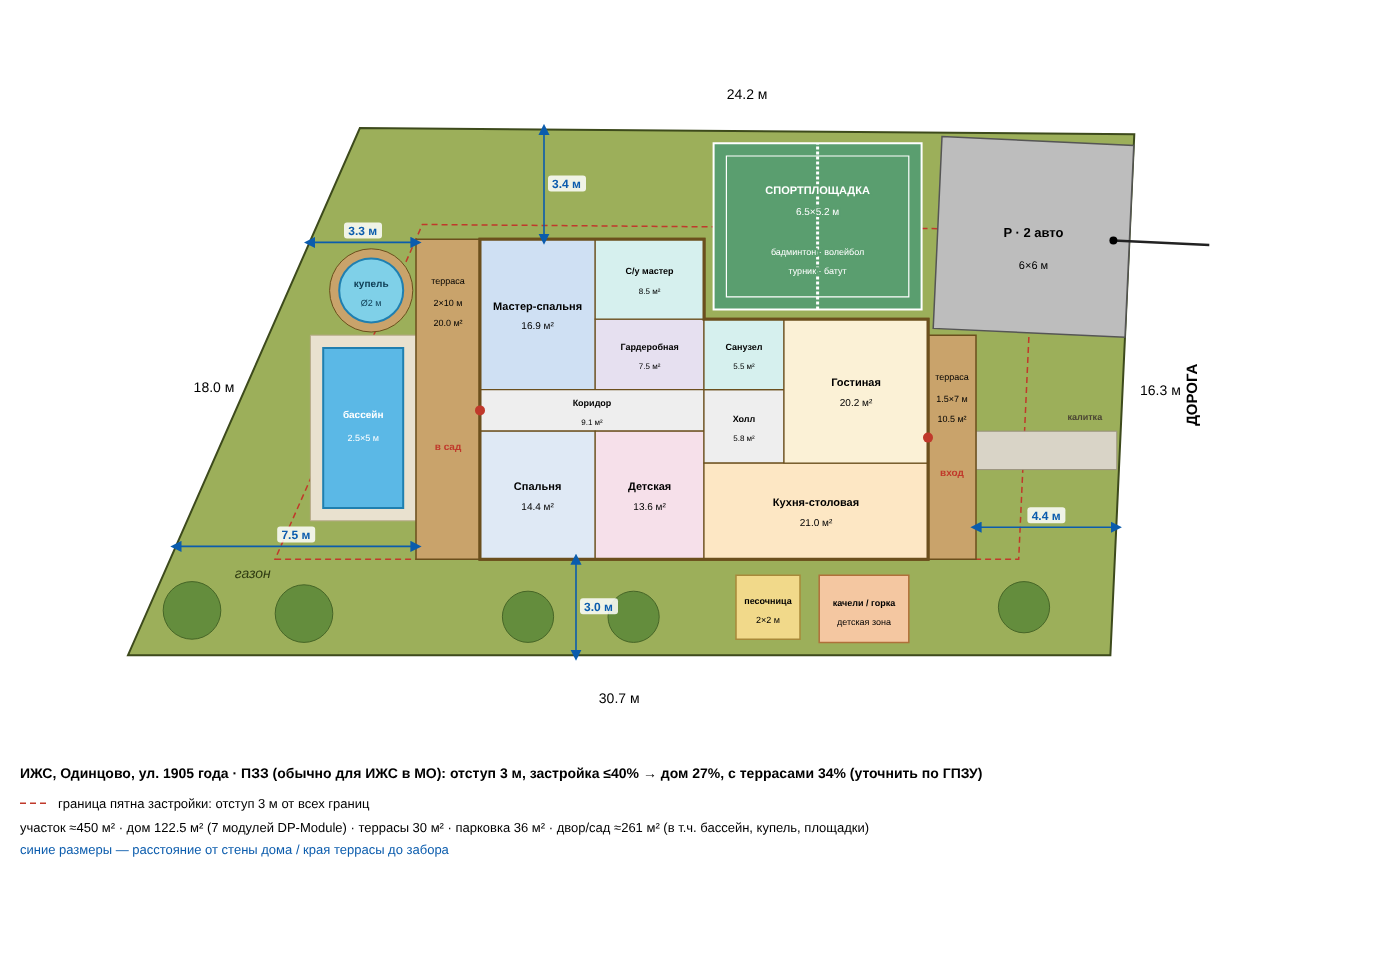
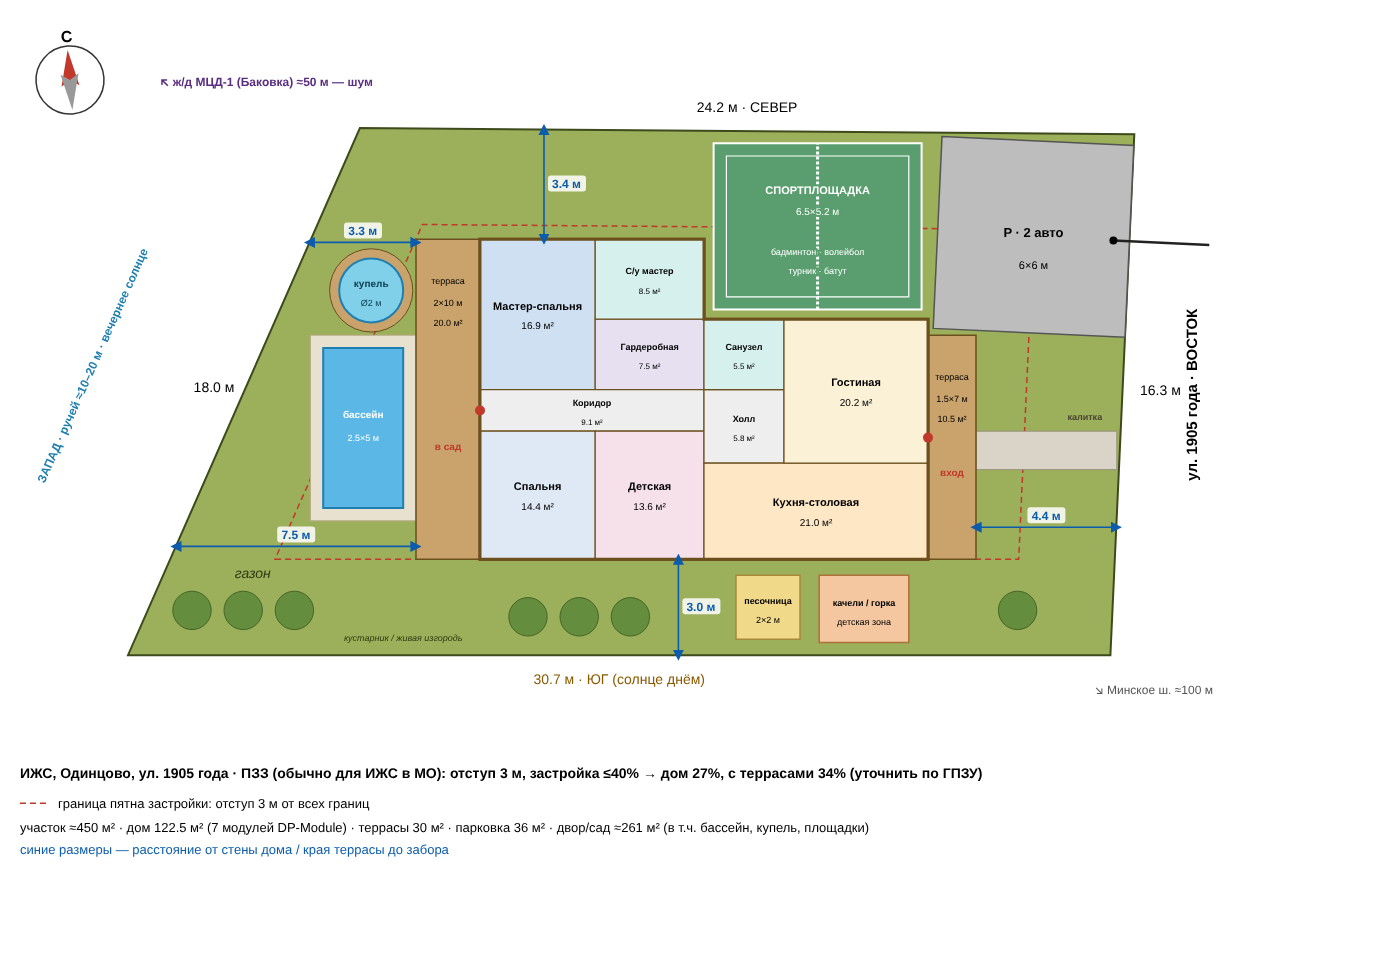
Ориентация по карте: север, ручей, ж/д, Минское ш.; кустарник у южного забора
Claude-Session: https://claude.ai/code/session_017tjZczqth6Lefs1XGWvp2u

diff --git a/plan.py b/plan.py
@@ -241,7 +241,7 @@ def ray_to_fence(p, d):
 DIMS = [  # (точка в координатах дома, направление) — от стены/террасы до забора
     ((-2.0, 0.4), (-1, 0)),    # сад-терраса, низ
     ((-2.0, 9.9), (-1, 0)),    # сад-терраса, верх
-    ((3.0, 0.0), (0, -1)),     # спальни -> нижний забор
+    ((6.2, 0.0), (0, -1)),     # спальни -> нижний забор
     ((2.0, 10.0), (0, 1)),     # мастер-блок -> верхний забор
     ((15.5, 1.0), (1, 0)),     # терраса у дороги -> забор у дороги
 ]
@@ -284,8 +284,9 @@ x0, y0_, x1, y1 = LEISURE["path"]
 LS.append(lrect_svg(x0, y0_, x1, y1, fill="#d9d4c7", stroke="#9a927e", stroke_width=1))
 gx, gy = local(x1 - 0.4, (y0_ + y1) / 2)
 LS.append(text(local(x1 - 1.0, y1 + 0.35), "калитка", 9, fill="#4a4434", font_weight="bold"))
-# деревья / кусты
-for X, Y, r in [(-9.0, -1.6, 0.9), (-5.5, -1.7, 0.9), (1.5, -1.8, 0.8), (4.8, -1.8, 0.8), (17.0, -1.5, 0.8)]:
+# кустарник / живая изгородь у южного забора (≥1 м от забора; высокие деревья — не ближе 4 м к соседу)
+for X, Y, r in [(-9.0, -1.6, 0.6), (-7.4, -1.6, 0.6), (-5.8, -1.6, 0.6), (1.5, -1.8, 0.6), (3.1, -1.8, 0.6),
+                (4.7, -1.8, 0.6), (16.8, -1.6, 0.6)]:
     cx, cy = sv(local(X, Y))
     LS.append(f'<circle cx="{cx:.1f}" cy="{cy:.1f}" r="{r * SC:.1f}" fill="#5f8a3a" stroke="#3d5e22" stroke-width="1" opacity="0.9"/>')
 # спортплощадка
@@ -347,17 +348,34 @@ el = [
     *DIM_SVG,
     text(centroid(PARK), "P · 2 авто", 13, font_weight="bold"),
     text((centroid(PARK)[0], centroid(PARK)[1] - 1.0), f"{PARK_W:g}×{PARK_D:g} м", 11),
-    text(mid(A, B, -1.5), f"{AB} м", 14),
-    text(mid(C, D, 1.0), f"{CD} м", 14),
+    text(mid(A, B, -0.9), f"{AB} м · ЮГ (солнце днём)", 14, fill="#8a5a00"),
+    text(mid(C, D, 0.6), f"{CD} м · СЕВЕР", 14),
     text(mid(D, A, 0), f"{DA} м", 14, transform=""),
     text(mid(B, C, 0), "", 14),
 ]
 mx, my = sv(mid(D, A)); el[-2] = f'<text x="{mx-30:.1f}" y="{my:.1f}" font-size="14" text-anchor="middle" font-family="sans-serif">{DA} м</text>'
-mx, my = sv(mid(B, C)); el[-1] = f'<text x="{mx+38:.1f}" y="{my:.1f}" font-size="14" text-anchor="middle" font-family="sans-serif">{BC} м</text><text x="{mx+75:.1f}" y="{my:.1f}" font-size="15" font-weight="bold" text-anchor="middle" font-family="sans-serif" transform="rotate(-90 {mx+75:.1f} {my:.1f})">ДОРОГА</text>'
+mx, my = sv(mid(B, C)); el[-1] = f'<text x="{mx+38:.1f}" y="{my:.1f}" font-size="14" text-anchor="middle" font-family="sans-serif">{BC} м</text><text x="{mx+75:.1f}" y="{my:.1f}" font-size="15" font-weight="bold" text-anchor="middle" font-family="sans-serif" transform="rotate(-90 {mx+75:.1f} {my:.1f})">ул. 1905 года · ВОСТОК</text>'
 # стрелка въезда
 e1 = sv(to_xy(park_s + PARK_W / 2, -2.5)); e2 = sv(to_xy(park_s + PARK_W / 2, 0.5))
 el.append(f'<line x1="{e1[0]:.1f}" y1="{e1[1]:.1f}" x2="{e2[0]:.1f}" y2="{e2[1]:.1f}" stroke="#222" stroke-width="2.5"/><circle cx="{e2[0]:.1f}" cy="{e2[1]:.1f}" r="4"/>')
 el.append(text((3.9, 2.4), "газон", 14, fill="#2f3b12", font_style="italic"))
+el.append(text((8.6, 0.45), "кустарник / живая изгородь", 9, fill="#2f3b12", font_style="italic"))
+
+# ---------- стороны света и окружение (по Яндекс.Картам: участок на западной стороне ул. 1905 года) ----------
+NORTH_DEG = -4.6  # север повёрнут на ~5° против часовой от «верха» схемы (по направлению улицы)
+cx, cy = 70, 80
+el.append(f'<g transform="rotate({NORTH_DEG} {cx} {cy})">'
+          f'<circle cx="{cx}" cy="{cy}" r="34" fill="#fff" stroke="#333" stroke-width="1.5"/>'
+          f'<path d="M{cx},{cy - 30} L{cx + 9},{cy + 6} L{cx},{cy} L{cx - 9},{cy + 6} z" fill="#c0392b"/>'
+          f'<path d="M{cx},{cy + 30} L{cx + 9},{cy - 6} L{cx},{cy} L{cx - 9},{cy - 6} z" fill="#999"/>'
+          f'<text x="{cx}" y="{cy - 38}" font-size="16" font-weight="bold" text-anchor="middle" font-family="sans-serif">С</text></g>')
+ax, ay = sv((1.0, 17.8))
+el.append(f'<text x="{ax:.1f}" y="{ay:.1f}" font-size="12" fill="#5a2d82" font-weight="bold" font-family="sans-serif">↖ ж/д МЦД-1 (Баковка) ≈50 м — шум</text>')
+lx, ly = sv((1.2, 9.0))
+el.append(f'<text x="{lx - 70:.1f}" y="{ly:.1f}" font-size="12" fill="#1f7fb0" font-weight="bold" text-anchor="middle" font-family="sans-serif" '
+          f'transform="rotate(-66 {lx - 70:.1f} {ly:.1f})">ЗАПАД · ручей ≈10–20 м · вечернее солнце</text>')
+mx2, my2 = sv((30.2, -1.2))
+el.append(f'<text x="{mx2:.1f}" y="{my2:.1f}" font-size="12" fill="#555" font-family="sans-serif">↘ Минское ш. ≈100 м</text>')
 y0 = (maxy - miny) * SC + 25
 el.append(f'<rect x="20" y="{y0-12}" width="28" height="0" stroke="#c0392b" stroke-dasharray="6 4" stroke-width="1.5"/>')
 el.append(f'<line x1="20" y1="{y0-5}" x2="50" y2="{y0-5}" stroke="#c0392b" stroke-dasharray="6 4" stroke-width="1.5"/>')
